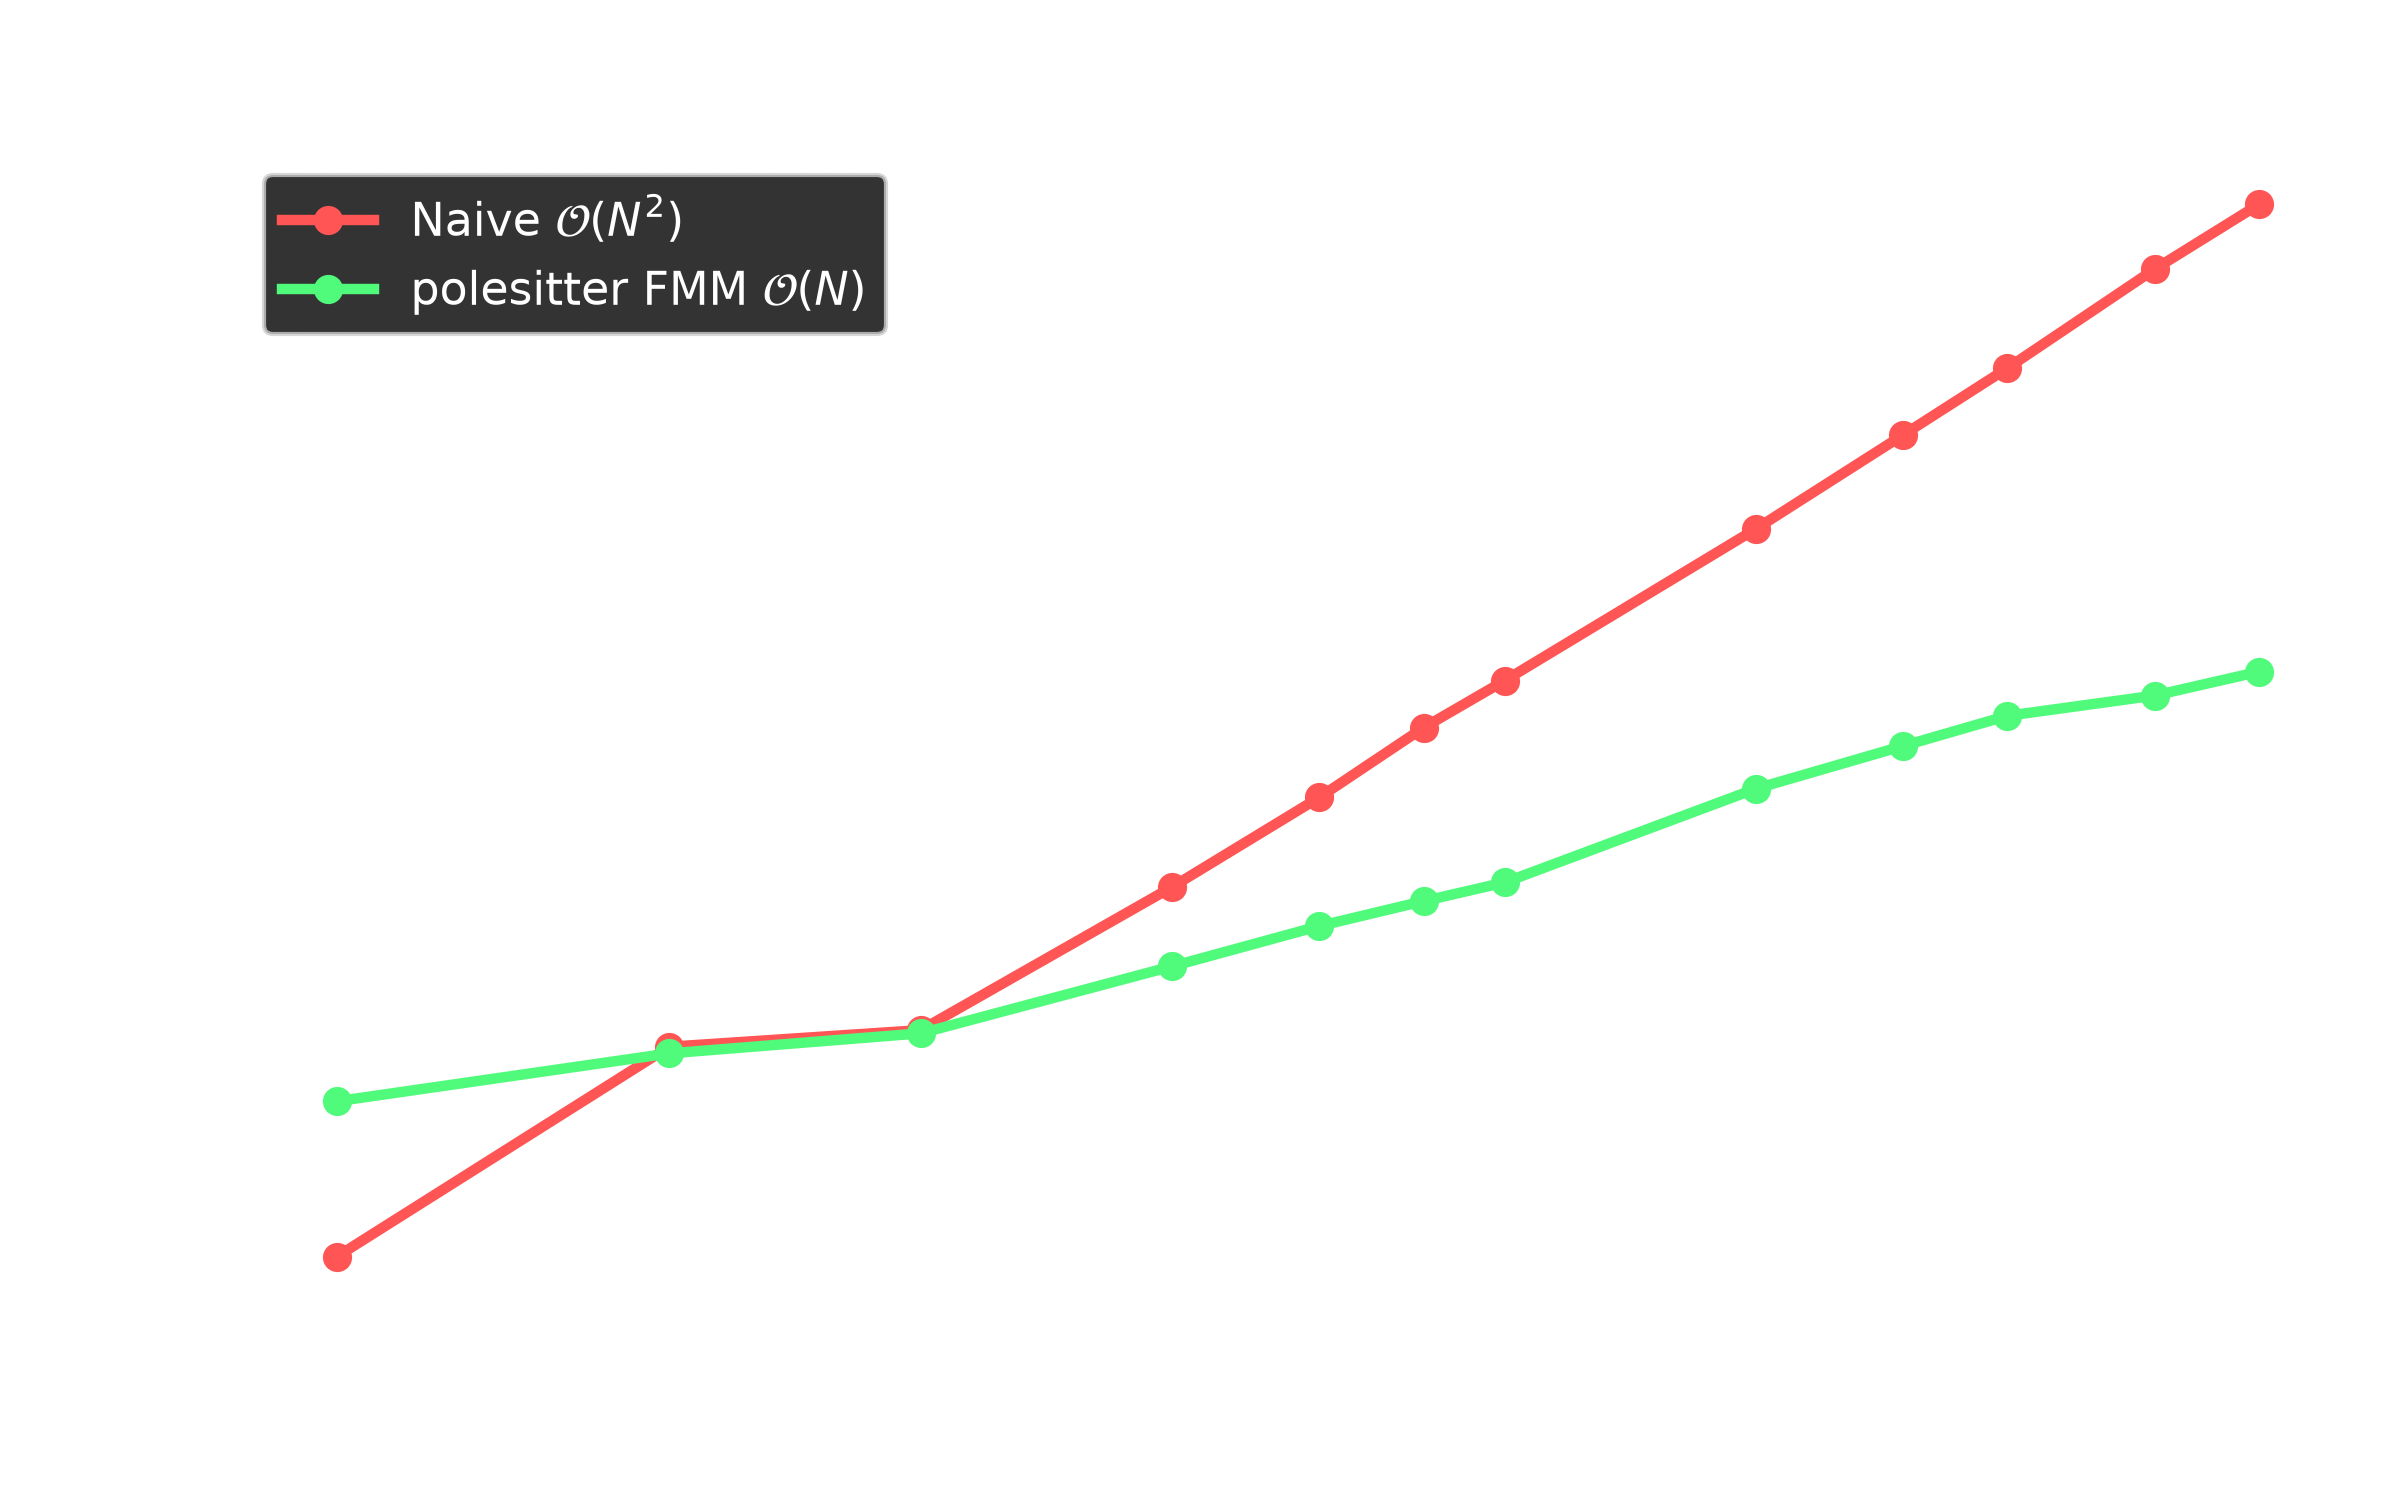
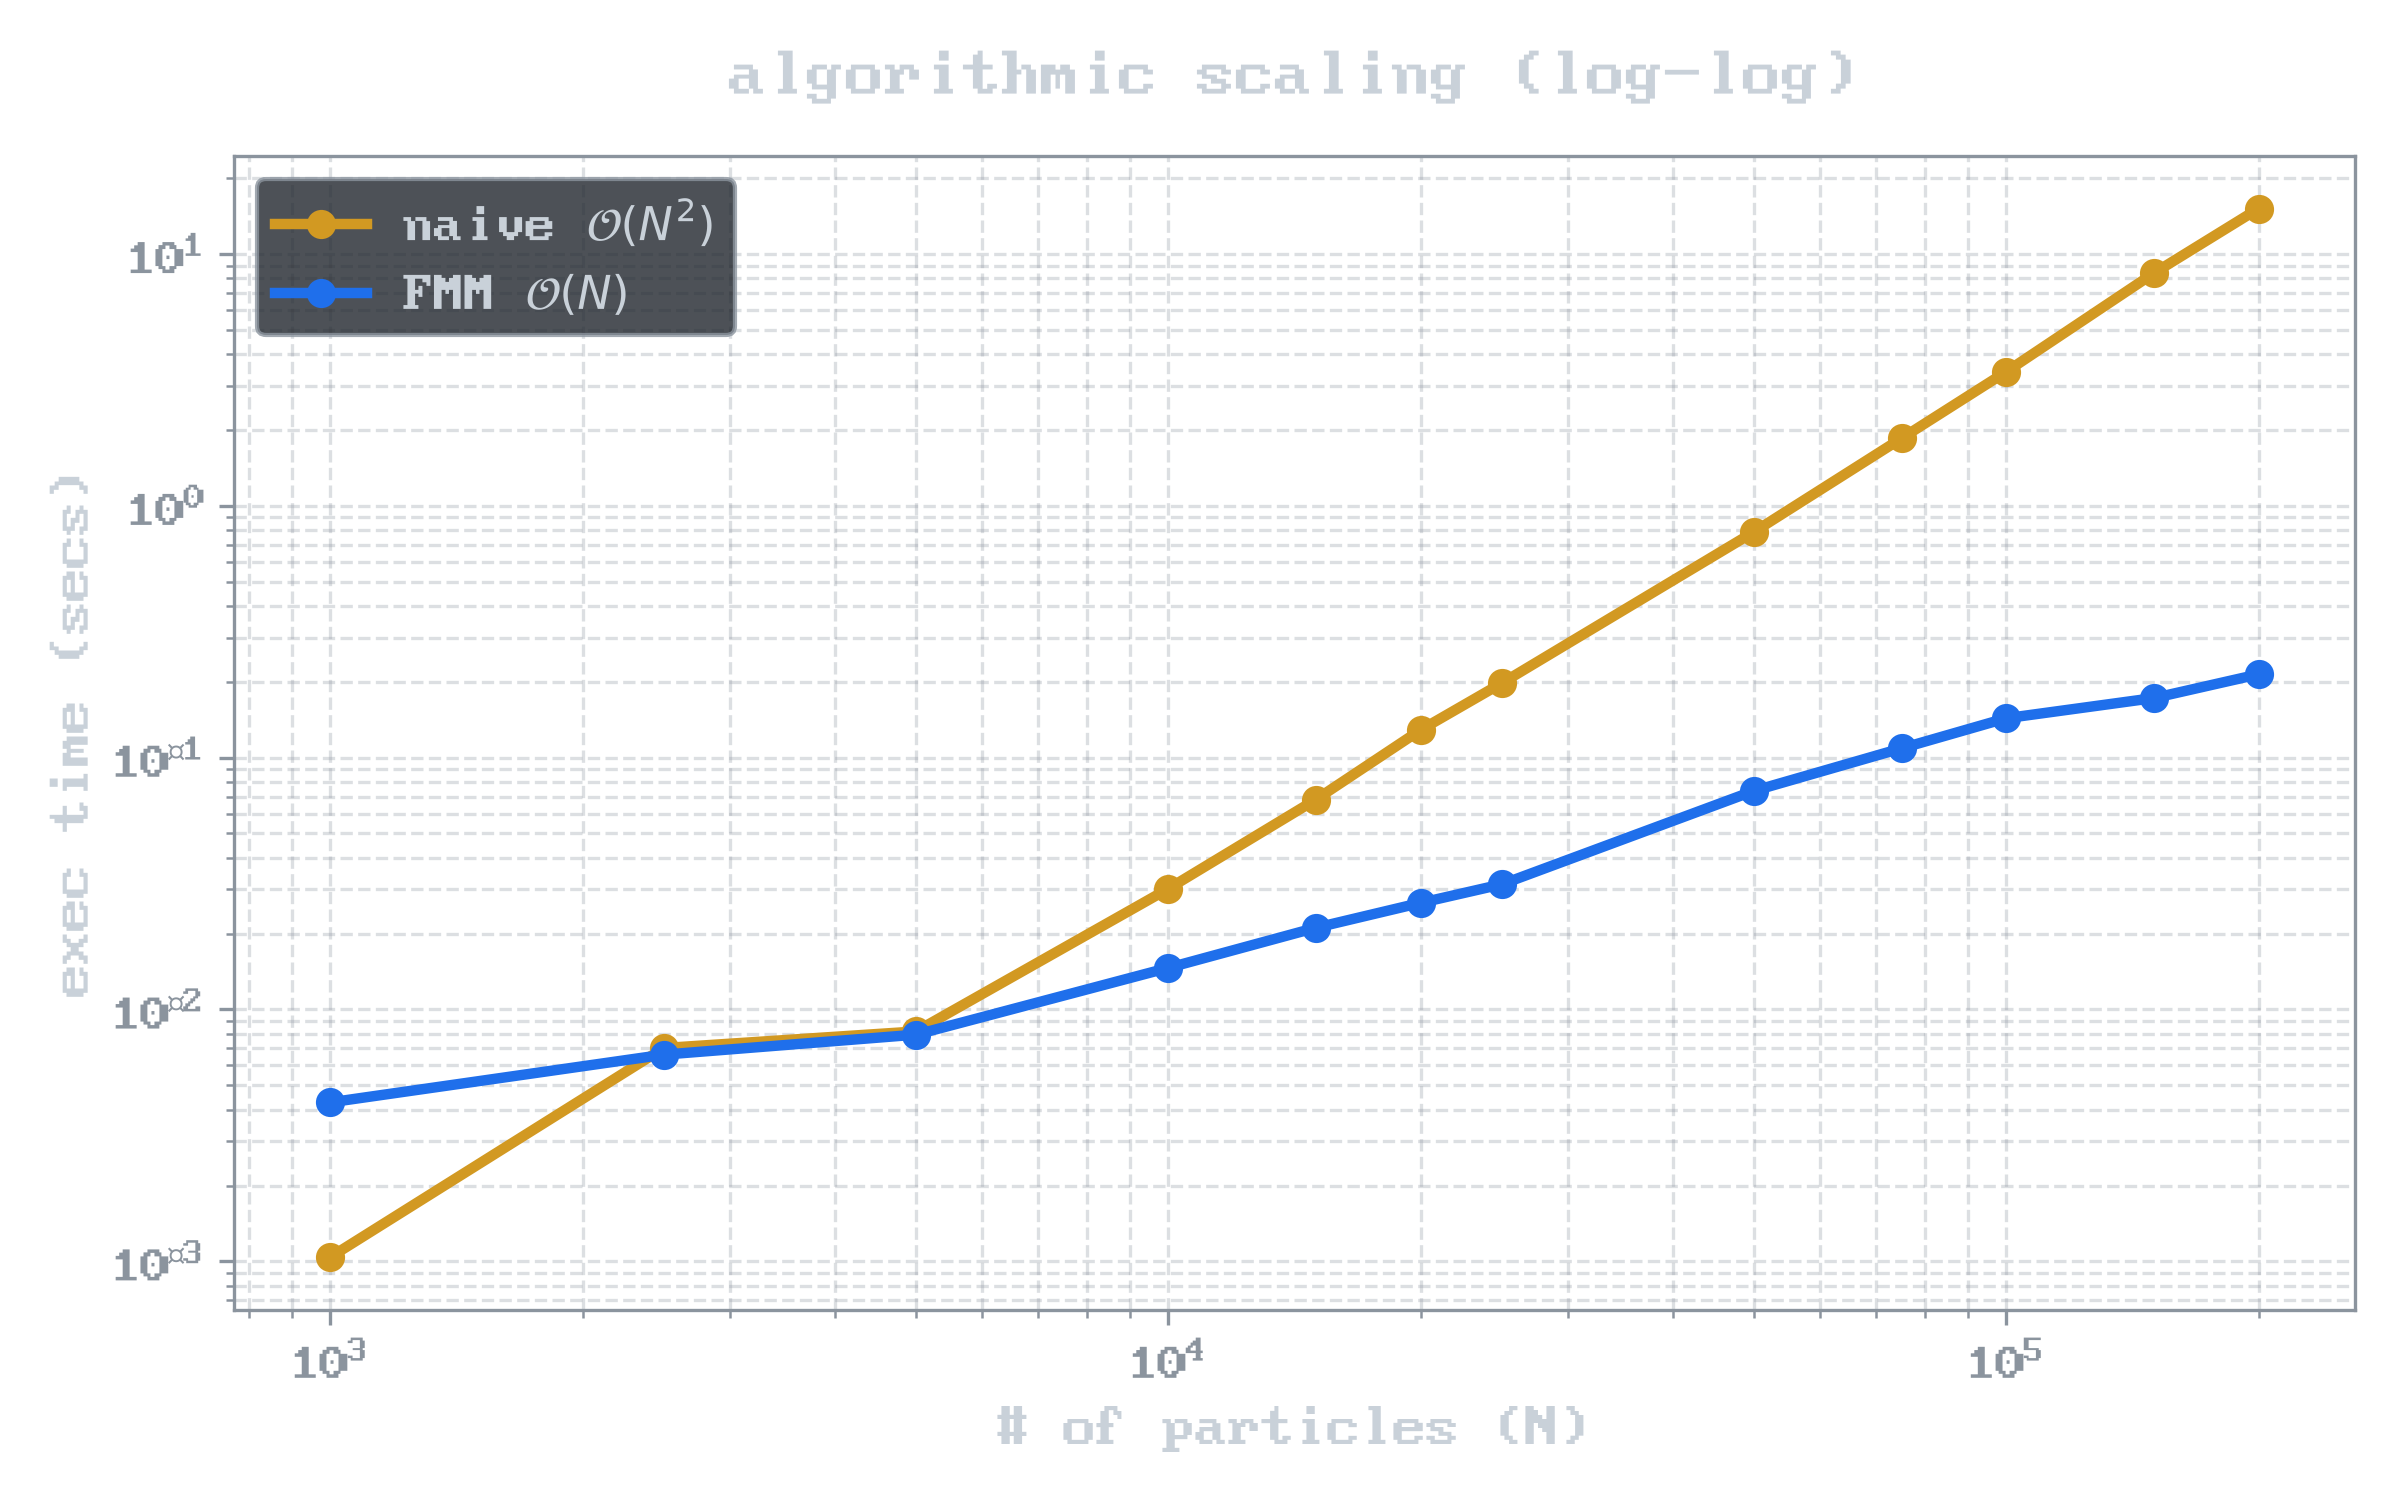
docs: match benchmark graph style with diagram (#22)

diff --git a/docs/plot.py b/docs/plot.py
@@ -1,20 +1,41 @@
 import matplotlib.pyplot as plt
 import pandas as pd
 
+COL_TEXT = '#C9D1D9'
+COL_BORDER = '#8B949E'
+COL_NAIVE = '#D29922'
+COL_FMM = '#1F6FEB'
+COL_BG = '#21262D'
+
+plt.rcParams.update({
+    'font.family': 'monospace',
+    'font.monospace': ['BigBlueTerm437 Nerd Font Mono'],
+    'text.color': COL_TEXT,
+    'axes.titlecolor': COL_TEXT,
+    'axes.labelcolor': COL_TEXT,
+    'axes.edgecolor': COL_BORDER,
+    'xtick.color': COL_BORDER,
+    'ytick.color': COL_BORDER,
+    'grid.color': COL_BORDER,
+    'axes.facecolor': 'none',
+    'figure.facecolor': 'none',
+    'legend.facecolor': COL_BG,
+    'legend.edgecolor': COL_BORDER,
+})
+
 data = pd.read_csv('results.csv')
 N = data['N']
 t_direct = data['Direct_Time']
 t_fmm = data['FMM_Time']
 
-plt.style.use('dark_background')
 fig, ax = plt.subplots(figsize=(8, 5))
 
-ax.plot(N, t_direct, marker='o', linewidth=2.5, color='#ff5555', label='Naive $\mathcal{O}(N^2)$')
-ax.plot(N, t_fmm, marker='o', linewidth=2.5, color='#50fa7b', label='polesitter FMM $\mathcal{O}(N)$')
+ax.plot(N, t_direct, marker='o', linewidth=2.5, color=COL_NAIVE, label='naive $\mathcal{O}(N^2)$')
+ax.plot(N, t_fmm, marker='o', linewidth=2.5, color=COL_FMM, label='FMM $\mathcal{O}(N)$')
 
-ax.set_title('Performance Scaling: Direct Evaluation vs FMM', fontsize=14, pad=15, fontweight='bold')
-ax.set_xlabel('Number of Particles (N)', fontsize=12)
-ax.set_ylabel('Execution Time (seconds)', fontsize=12)
+ax.set_title('perf scaling: direct evaluation vs FMM', fontsize=14, pad=15, fontweight='bold')
+ax.set_xlabel('# of particles (N)', fontsize=12)
+ax.set_ylabel('exec time (secs)', fontsize=12)
 
 ax.grid(True, linestyle='--', alpha=0.3)
 ax.legend(fontsize=11, loc='upper left')
@@ -27,18 +48,18 @@ plt.savefig('performance_graph.png', dpi=300, transparent=True)
 
 fig_log, ax_log = plt.subplots(figsize=(8, 5))
 
-ax_log.plot(N, t_direct, marker='o', linewidth=2.5, color='#ff5555',
-label='Naive $\mathcal{O}(N^2)$')
-ax_log.plot(N, t_fmm, marker='o', linewidth=2.5, color='#50fa7b',
-label='polesitter FMM $\mathcal{O}(N)$')
+ax_log.plot(N, t_direct, marker='o', linewidth=2.5, color=COL_NAIVE,
+label='naive $\mathcal{O}(N^2)$')
+ax_log.plot(N, t_fmm, marker='o', linewidth=2.5, color=COL_FMM,
+label='FMM $\mathcal{O}(N)$')
 
 ax_log.set_xscale('log')
 ax_log.set_yscale('log')
 
-ax_log.set_title('Algorithmic Scaling (Log-Log Scale)', fontsize=14, pad=15,
+ax_log.set_title('algorithmic scaling (log-log)', fontsize=14, pad=15,
 fontweight='bold')
-ax_log.set_xlabel('Number of Particles (N)', fontsize=12)
-ax_log.set_ylabel('Execution Time (seconds)', fontsize=12)
+ax_log.set_xlabel('# of particles (N)', fontsize=12)
+ax_log.set_ylabel('exec time (secs)', fontsize=12)
 
 ax_log.grid(True, which="both", linestyle='--', alpha=0.3)
 ax_log.legend(fontsize=11, loc='upper left')
